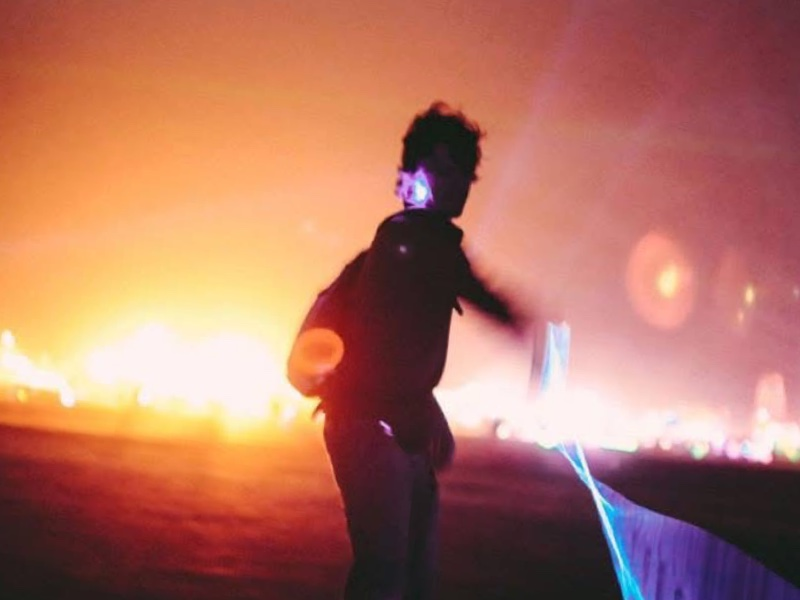
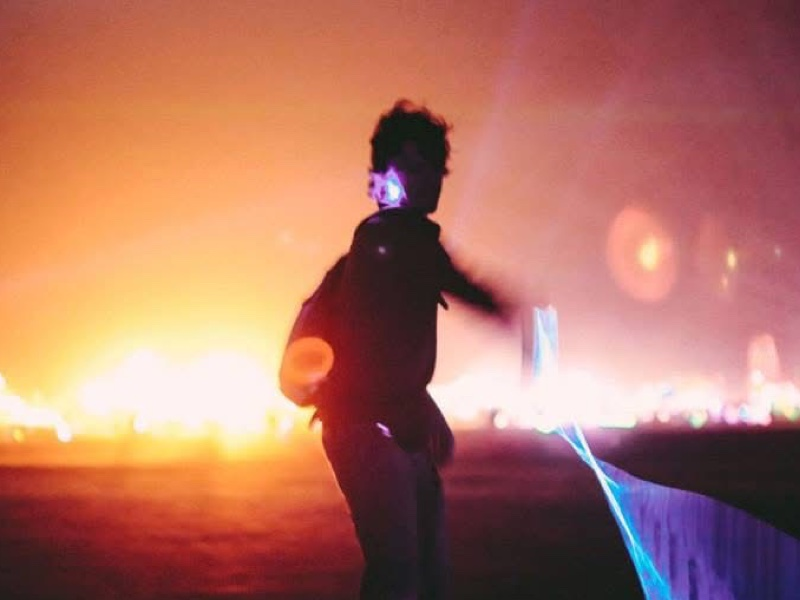
Home: second slideshow frame levelled on the far line of lights (no rotation; the earlier angle was levelling the foreground edge)

diff --git a/index.html b/index.html
@@ -39,9 +39,9 @@
   </p>Boot with the wrong flags and the process hangs, a cell can't execute; flip those flags and the same checkpoint takes traffic. This is the power of epigenome editing, and I landed in San Francisco just in time to join the pioneers mobilizing it for life-changing therapeutics.</p>
 
   <div class="slideshow" aria-label="Photographs">
-    <img src="assets/img/home-1.jpg?v=4" alt="">
-    <img src="assets/img/home-2.jpg?v=4" alt="">
-    <img src="assets/img/home-3.jpg?v=4" alt="">
+    <img src="assets/img/home-1.jpg?v=5" alt="">
+    <img src="assets/img/home-2.jpg?v=5" alt="">
+    <img src="assets/img/home-3.jpg?v=5" alt="">
   </div>
   <p class="credit">photo credit: <a href="https://elenakulikova.com/">@elenakulikovastudio</a></p>
 
